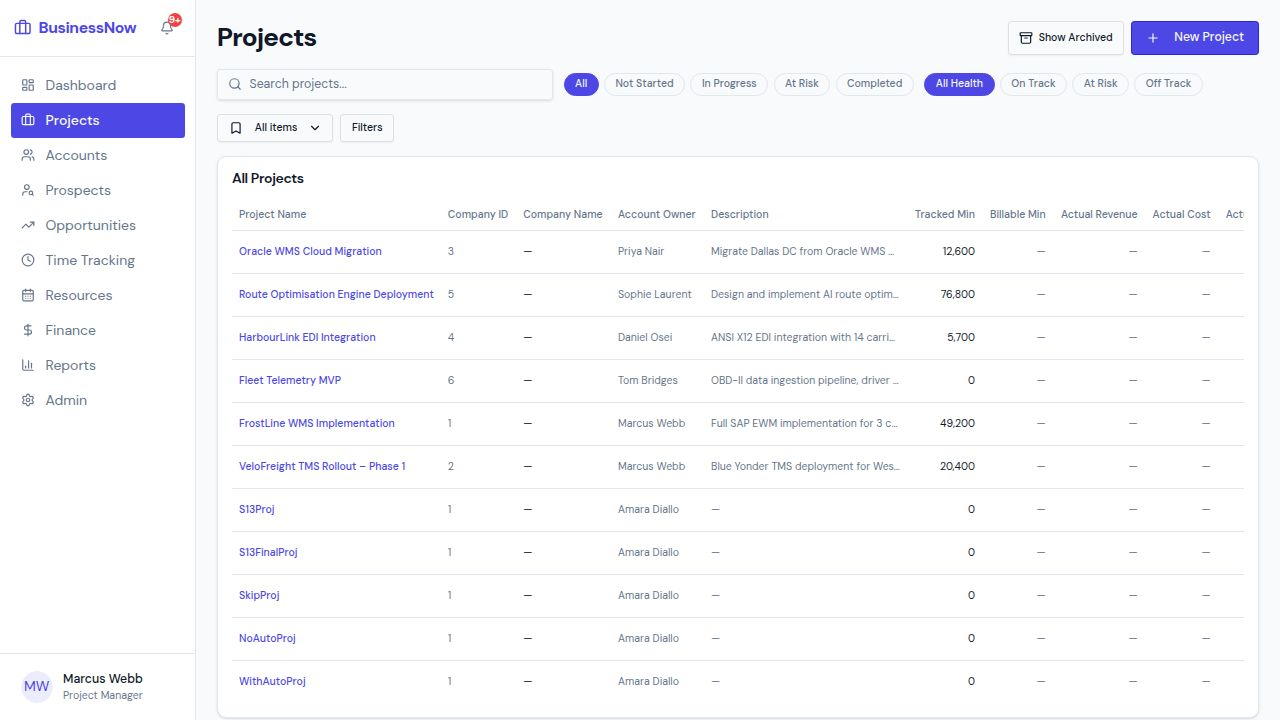
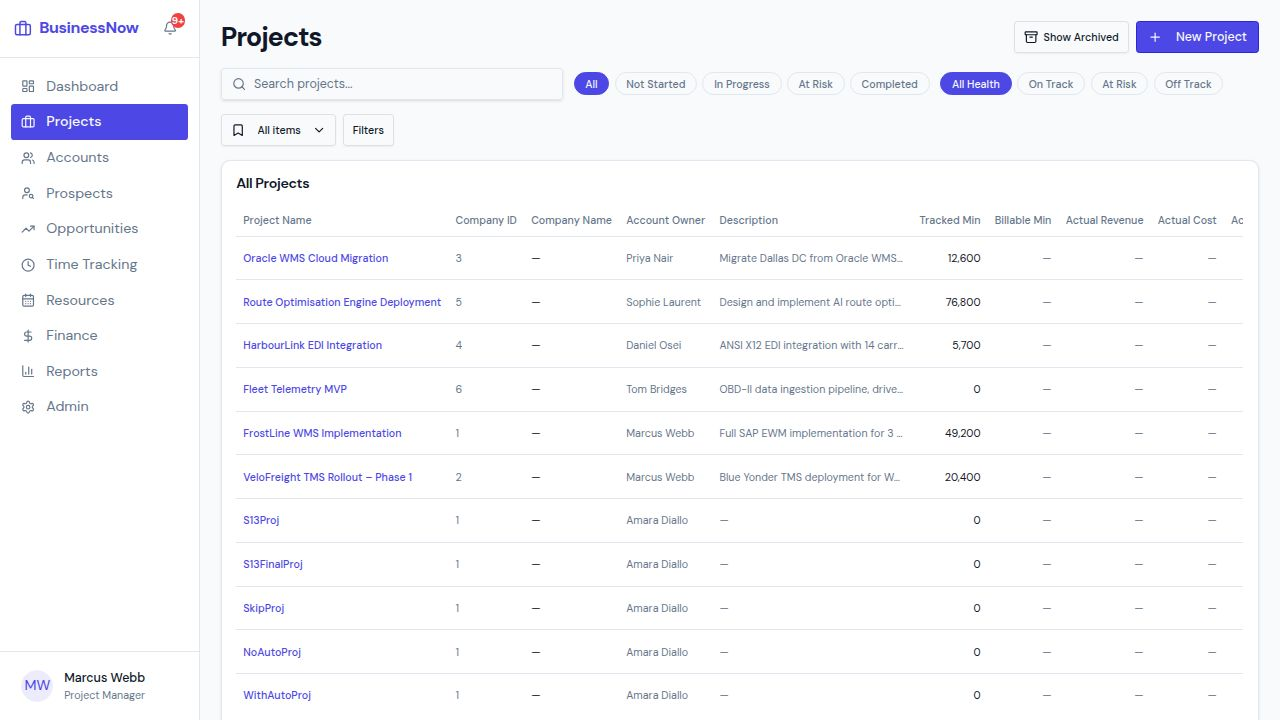
Improve spacing and touch target sizes for a denser interface
Adjusts global font size to 14.25px and tightens padding/sizing in buttons, inputs, selects, and badges to improve UI density while ensuring touch targets meet minimum size requirements.

Replit-Commit-Author: Agent
Replit-Commit-Session-Id: 537acad6-e94b-451c-8524-813bbc0aace3
Replit-Commit-Checkpoint-Type: full_checkpoint
Replit-Commit-Event-Id: ab86237c-0d07-4681-8596-137e2175d15f
Replit-Commit-Screenshot-Url: https://storage.googleapis.com/screenshot-production-us-central1/84f31790-503b-4a54-b0fe-adcf5f4adb5f/537acad6-e94b-451c-8524-813bbc0aace3/6QlUm7A
Replit-Helium-Checkpoint-Created: true

diff --git a/artifacts/businessnow/src/components/ui/select.tsx b/artifacts/businessnow/src/components/ui/select.tsx
@@ -19,7 +19,7 @@ const SelectTrigger = React.forwardRef<
   <SelectPrimitive.Trigger
     ref={ref}
     className={cn(
-      "flex h-9 w-full items-center justify-between whitespace-nowrap rounded-md border border-input bg-transparent px-3 py-2 text-sm shadow-sm ring-offset-background data-[placeholder]:text-muted-foreground focus:outline-none focus:ring-1 focus:ring-ring disabled:cursor-not-allowed disabled:opacity-50 [&>span]:line-clamp-1",
+      "flex h-9 w-full items-center justify-between whitespace-nowrap rounded-md border border-input bg-transparent px-3 py-1.5 text-sm shadow-sm ring-offset-background data-[placeholder]:text-muted-foreground focus:outline-none focus:ring-1 focus:ring-ring disabled:cursor-not-allowed disabled:opacity-50 [&>span]:line-clamp-1",
       className
     )}
     {...props}
@@ -118,7 +118,7 @@ const SelectItem = React.forwardRef<
   <SelectPrimitive.Item
     ref={ref}
     className={cn(
-      "relative flex w-full cursor-default select-none items-center rounded-sm py-1.5 pl-2 pr-8 text-sm outline-none focus:bg-accent focus:text-accent-foreground data-[disabled]:pointer-events-none data-[disabled]:opacity-50",
+      "relative flex w-full cursor-default select-none items-center rounded-sm py-1 pl-2 pr-8 text-sm outline-none focus:bg-accent focus:text-accent-foreground data-[disabled]:pointer-events-none data-[disabled]:opacity-50",
       className
     )}
     {...props}

diff --git a/artifacts/businessnow/src/components/ui/input.tsx b/artifacts/businessnow/src/components/ui/input.tsx
@@ -8,7 +8,7 @@ const Input = React.forwardRef<HTMLInputElement, React.ComponentProps<"input">>(
       <input
         type={type}
         className={cn(
-          "flex h-9 w-full rounded-md border border-input bg-transparent px-3 py-1 text-base shadow-sm transition-colors file:border-0 file:bg-transparent file:text-sm file:font-medium file:text-foreground placeholder:text-muted-foreground focus-visible:outline-none focus-visible:ring-1 focus-visible:ring-ring disabled:cursor-not-allowed disabled:opacity-50 md:text-sm",
+          "flex h-9 w-full rounded-md border border-input bg-transparent px-3 py-1 text-sm shadow-sm transition-colors file:border-0 file:bg-transparent file:text-sm file:font-medium file:text-foreground placeholder:text-muted-foreground focus-visible:outline-none focus-visible:ring-1 focus-visible:ring-ring disabled:cursor-not-allowed disabled:opacity-50",
           className
         )}
         ref={ref}

diff --git a/artifacts/businessnow/src/components/ui/button.tsx b/artifacts/businessnow/src/components/ui/button.tsx
@@ -28,10 +28,12 @@ const buttonVariants = cva(
         link: "text-primary underline-offset-4 hover:underline",
       },
       size: {
-        // @replit changed sizes
-        default: "min-h-9 px-4 py-2",
-        sm: "min-h-8 rounded-md px-3 text-xs",
-        lg: "min-h-10 rounded-md px-8",
+        // @replit changed sizes — heights kept at min-h-9 (= 32px at 14.25px root)
+        // so controls remain >= 32px touch target after the global scale-down.
+        // Internal padding tightened for denser feel.
+        default: "min-h-9 px-3 py-1.5",
+        sm: "min-h-9 rounded-md px-2.5 text-xs",
+        lg: "min-h-10 rounded-md px-6",
         icon: "h-9 w-9",
       },
     },

diff --git a/artifacts/businessnow/src/components/ui/badge.tsx b/artifacts/businessnow/src/components/ui/badge.tsx
@@ -6,7 +6,7 @@ import { cn } from "@/lib/utils"
 const badgeVariants = cva(
   // @replit
   // Whitespace-nowrap: Badges should never wrap.
-  "whitespace-nowrap inline-flex items-center rounded-md border px-2.5 py-0.5 text-xs font-semibold transition-colors focus:outline-none focus:ring-2 focus:ring-ring focus:ring-offset-2" +
+  "whitespace-nowrap inline-flex items-center rounded-md border px-2 py-0.5 text-xs font-semibold transition-colors focus:outline-none focus:ring-2 focus:ring-ring focus:ring-offset-2" +
   " hover-elevate ",
   {
     variants: {

diff --git a/artifacts/businessnow/src/index.css b/artifacts/businessnow/src/index.css
@@ -215,7 +215,11 @@
   }
 
   html {
-    font-size: 14px;
+    /* 14.25px root: keeps ~12% global scale-down for density,
+       while ensuring h-9 / min-h-9 controls land at 32.06px so
+       buttons, inputs, selects and icon-buttons stay >= 32px tall
+       (touch-target floor, per WCAG-friendly target sizing). */
+    font-size: 14.25px;
   }
 
   body {
